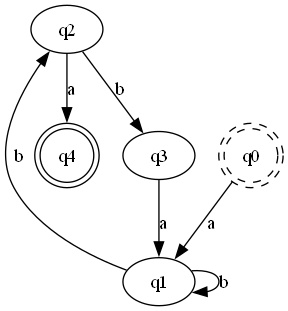
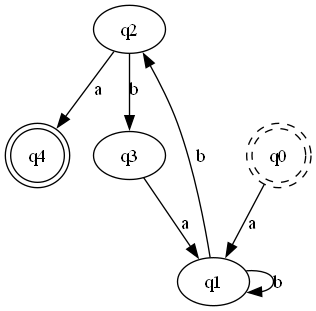
Add unit tests, comment code

diff --git a/Lab1/src/Grammar.py b/Lab1/src/Grammar.py
@@ -4,44 +4,48 @@ from blinker._utilities import symbol
 
 
 class Grammar:
+    # Initialize the Grammar class with non-terminals, terminals, productions, and start symbol
     def __init__(self, non_terminals, terminals, productions, start_symbol):
-        self.non_terminals = non_terminals
-        self.terminals = terminals
-        self.productions = productions
-        self.start_symbols = start_symbol
+        self.non_terminals = non_terminals  # Non-terminal symbols (e.g., variables like S, A, B)
+        self.terminals = terminals  # Terminal symbols (e.g., actual characters or tokens)
+        self.productions = productions  # Dictionary of productions for each non-terminal
+        self.start_symbols = start_symbol  # The starting non-terminal for generating strings
 
-    # Method to generate a string
+    # Method to generate a string based on the grammar rules
     def generate_string(self):
-        # Randomly select an initial production from the start symbol's productions
+        # Randomly select a production for the start symbol and initialize the result
         result = random.choice(self.productions[self.start_symbols])
-        # Continue generating the string until there are no non-terminals left in the result
+
+        # Continue replacing non-terminals with their respective productions until there are no non-terminals left
         while any(non_terminal in result for non_terminal in self.non_terminals):
-            # Initialize a new string to hold the final result
             final_result = ""
-            # Iterate over each character in the current result
             for letter in result:
                 if letter in self.non_terminals:
-                    # If the character is a non-terminal, replace it with a random production for that non-terminal
+                    # Replace non-terminals with random productions
                     final_result += random.choice(self.productions[letter])
                 else:
-                    # If the character is a terminal, keep it unchanged
+                    # Keep terminal symbols as they are
                     final_result += letter
-            # Update the result with the newly expanded string
+            # Update the result with the new expanded string
             result = final_result
+
         return result
 
-    # Method to generate a list of strings
+    # Method to generate a list of strings (multiple generations)
     def generate_strings(self, number_of_strings):
         strings = []
         for _ in range(number_of_strings):
+            # Generate and append each string to the list
             strings.append(self.generate_string())
         return strings
 
+    # Check if the grammar is of Type 3 (Regular grammar)
     def __check_type3(self):
         type3 = True
         for non_terminal, production in self.productions.items():
             if non_terminal in self.non_terminals and len(non_terminal) == 1:
                 for prod in production:
+                    # Check production rules for Type 3 grammar (either single terminal or terminal followed by non-terminal)
                     if len(prod) == 1 and prod in self.terminals:
                         continue
                     elif len(prod) == 2 and prod[0] in self.terminals and prod[1] in self.non_terminals:
@@ -51,18 +55,20 @@ class Grammar:
                     else:
                         type3 = False
                         break
-
             else:
                 type3 = False
                 break
         return type3
 
+    # Check if the grammar is of Type 2 (Context-free grammar)
     def __check_type2(self):
         type2 = True
         for non_terminal, production in self.productions.items():
             if non_terminal in self.non_terminals and len(non_terminal) == 1:
                 for prod in production:
-                    if len(prod) == 0 or all(symbol in self.terminals or symbol in self.non_terminals for symbol in prod):
+                    # Check if the production is valid for a Type 2 grammar
+                    if len(prod) == 0 or all(
+                            symbol in self.terminals or symbol in self.non_terminals for symbol in prod):
                         continue
                     else:
                         type2 = False
@@ -72,12 +78,15 @@ class Grammar:
                 break
         return type2
 
+    # Check if the grammar is of Type 1 (Context-sensitive grammar)
     def __check_type1(self):
         type1 = True
         for non_terminal, production in self.productions.items():
             if non_terminal in self.non_terminals:
                 for prod in production:
-                    if len(non_terminal) <= len(prod) and all(symbol in self.terminals or symbol in self.non_terminals for symbol in prod):
+                    # Check if production is valid for Type 1 grammar (productions must follow specific rules)
+                    if len(non_terminal) <= len(prod) and all(
+                            symbol in self.terminals or symbol in self.non_terminals for symbol in prod):
                         continue
                     else:
                         type1 = False
@@ -87,12 +96,15 @@ class Grammar:
                 break
         return type1
 
+    # Check if the grammar is of Type 0 (Unrestricted grammar)
     def __check_type0(self):
         type0 = True
         for non_terminal, production in self.productions.items():
             if non_terminal in self.non_terminals:
                 for prod in production:
-                    if all(symbol in self.terminals or symbol in self.non_terminals for symbol in prod) or len(prod) == 0:
+                    # Type 0 allows unrestricted production rules
+                    if all(symbol in self.terminals or symbol in self.non_terminals for symbol in prod) or len(
+                            prod) == 0:
                         continue
                     else:
                         type0 = False
@@ -102,10 +114,9 @@ class Grammar:
                 break
         return type0
 
-
-
-
+    # Determine the type of grammar (Type 3, 2, 1, 0 or Invalid)
     def return_grammar_type(self):
+        # Check for Type 0, then Type 1, Type 2, and Type 3 in sequence
         if self.__check_type0():
             if self.__check_type1():
                 if self.__check_type2():
@@ -119,4 +130,3 @@ class Grammar:
                 return "Grammar Type 0"
         else:
             return "Invalid Grammar Type"
-

diff --git a/Lab2/src/FiniteAutomaton.py b/Lab2/src/FiniteAutomaton.py
@@ -3,56 +3,86 @@ from graphviz import Digraph
 
 
 class FiniteAutomaton:
+    # Initialize the FiniteAutomaton class with states, alphabet, initial state, final states, and transitions
     def __init__(self, states, alphabet, initial_state, final_state, transitions):
+        # List of states in the automaton
         self.states = states
+        # List of symbols in the alphabet (input symbols)
         self.alphabet = alphabet
+        # The initial state of the automaton
         self.initial_state = initial_state
+        # List of final (accepting) states
         self.final_state = final_state
+        # List of transitions between states (e.g., state to state on input symbol)
         self.transitions = transitions
 
+    # Check if the automaton is deterministic
     def is_deterministic(self):
         is_deterministic = True
+        # Keep track of seen state-symbol pairs
         seen = []
         for transition in self.transitions:
+            # Key is a pair of state and symbol
             key = [transition["state"], transition["symbol"]]
             if key in seen:
+                # If the pair is seen again, it means it's non-deterministic
                 is_deterministic = False
                 break
             seen.append(key)
         return is_deterministic
 
+    # Generate the productions for a context-free grammar from the automaton's transitions
     def __get_productions(self):
+        # Dictionary to store productions for each state
         productions = {}
+        # Initialize empty lists for each state in the automaton
         for transition in self.transitions:
             if transition["state"] not in productions:
                 productions[transition["state"]] = []
 
+        # Add the corresponding production rule for each transition
         for transition in self.transitions:
+            # If the transition leads to a final state, add the symbol only
             if transition["to"] not in self.final_state:
                 productions[transition["state"]].append(transition["symbol"] + transition["to"])
             else:
+                # Otherwise, append the symbol
                 productions[transition["state"]].append(transition["symbol"])
         return productions
 
+    # Convert the finite automaton to a context-free grammar
     def convert_to_grammar(self):
+        # States become non-terminals in the grammar
         non_terminals = self.states
+        # Alphabet becomes terminals in the grammar
         terminals = self.alphabet
+        # The initial state remains the same
         initial_state = self.initial_state
+        # Get the productions from the transitions
         productions = self.__get_productions()
+        # Create Grammar object
         grammar = Grammar(non_terminals, terminals, productions, initial_state)
         return grammar
 
+    # Visualize the finite automaton using Graphviz
     def visualize(self):
+        # Initialize the Graphviz Digraph object
         dot = Digraph(comment='Finite Automaton')
 
+        # Add nodes (states) to the graph
         for state in self.states:
             if state == self.initial_state:
+                # The initial state is represented with a dashed double circle
                 dot.node(state, shape='doublecircle', style='dashed')
             elif state in self.final_state:
+                # Final states are represented with a double circle
                 dot.node(state, shape='doublecircle')
+            else:
                 dot.node(state)
 
+        # Add edges (transitions) between states
         for transition in self.transitions:
             dot.edge(transition["state"], transition["to"], label=transition["symbol"])
 
+        # Render the graph to a file and view it
         dot.render('finite_automaton', format='png', view=True)

diff --git a/Lab2/test/TestFiniteAutomaton.py b/Lab2/test/TestFiniteAutomaton.py
@@ -1,0 +1,54 @@
+import unittest
+from Lab2.src.FiniteAutomaton import FiniteAutomaton
+
+
+class TestFiniteAutomaton(unittest.TestCase):
+
+    def setUp(self):
+        self.states = {"q0", "q1", "q2", "q3", "q4"}
+        self.alphabet = {"a", "b"}
+        self.initial_state = "q0"
+        self.final_state = {"q4"}
+        self.transitions = [
+            {"state": "q0", "symbol": "a", "to": "q1"},
+            {"state": "q1", "symbol": "b", "to": "q1"},
+            {"state": "q1", "symbol": "b", "to": "q2"},
+            {"state": "q2", "symbol": "b", "to": "q3"},
+            {"state": "q3", "symbol": "a", "to": "q1"},
+            {"state": "q2", "symbol": "a", "to": "q4"},
+        ]
+        self.fa = FiniteAutomaton(self.states, self.alphabet, self.initial_state, self.final_state, self.transitions)
+
+    def test_is_deterministic(self):
+        # Test for deterministic automaton
+        self.assertFalse(self.fa.is_deterministic())
+
+        # Define a non-deterministic FA
+        transitions_deterministic = [
+            {"state": "q0", "symbol": "a", "to": "q1"},
+            {"state": "q0", "symbol": "b", "to": "q2"}
+        ]
+        fa_deterministic = FiniteAutomaton(self.states, self.alphabet, self.initial_state, self.final_state,
+                                           transitions_deterministic)
+        self.assertTrue(fa_deterministic.is_deterministic())
+
+    def test_convert_to_grammar(self):
+        grammar = self.fa.convert_to_grammar()
+
+        # Test the grammar's properties
+        self.assertEqual(grammar.non_terminals, self.states)
+        self.assertEqual(grammar.terminals, self.alphabet)
+        self.assertEqual(grammar.start_symbols, self.initial_state)
+
+        # Check some productions from the transitions
+        productions = grammar.productions
+        self.assertIn("q0", productions)
+        self.assertIn("q1", productions)
+        self.assertIn("q2", productions)
+
+        # For example, check that the transition q0 -a-> q1 is translated to a production
+        self.assertIn("aq1", productions["q0"])
+
+
+if __name__ == '__main__':
+    unittest.main()

diff --git a/Lab2/src/Grammar.py b/Lab2/src/Grammar.py
@@ -1,20 +1,20 @@
 class Grammar(object):
+    # Initialize the Grammar class with non-terminals, terminals, productions, and the start symbol
     def __init__(self, non_terminals, terminals, productions, start_symbol):
+        # Non-terminal symbols
         self.non_terminals = non_terminals
+        # Terminal symbols
         self.terminals = terminals
+        # Dictionary of productions for each non-terminal
         self.productions = productions
+        # The starting non-terminal for generating strings
         self.start_symbols = start_symbol
 
+    # Method to print the grammar in a readable format
     def print_grammar(self):
         print("Grammar:")
         print(f"Start Symbol: {self.start_symbols}")
-
-        # Print Non-Terminals
         print("Non-Terminals:", ", ".join(self.non_terminals))
-
-        # Print Terminals
         print("Terminals:", ", ".join(self.terminals))
-
-        # Print Productions
         print("Productions:")
         print(self.productions)
